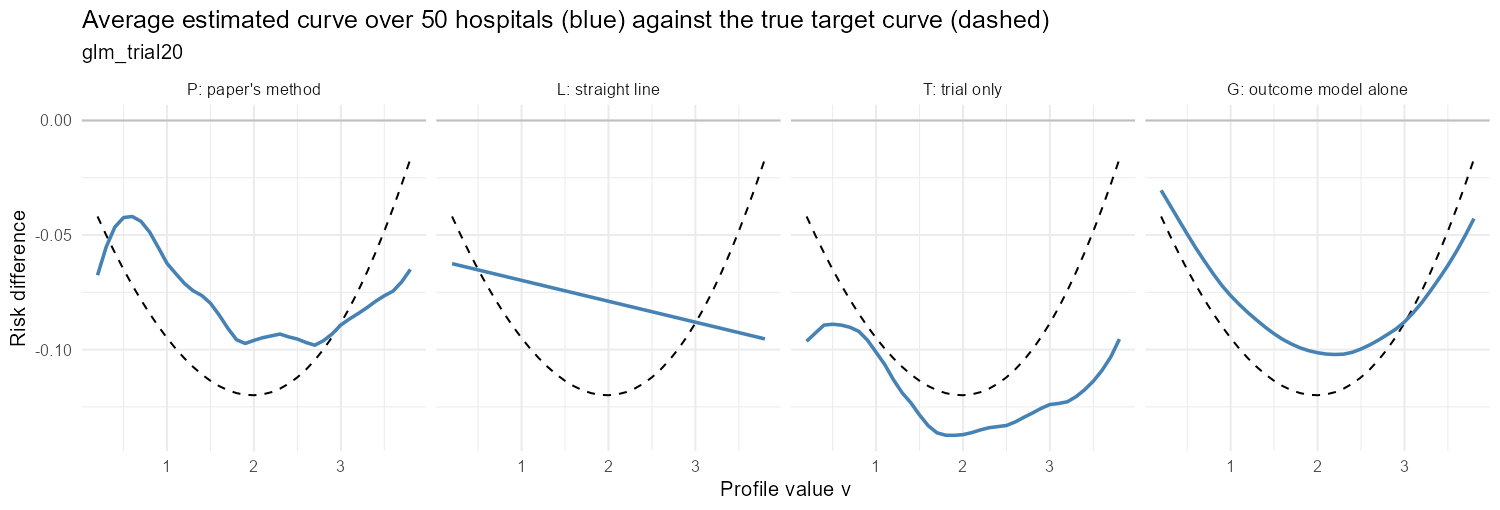
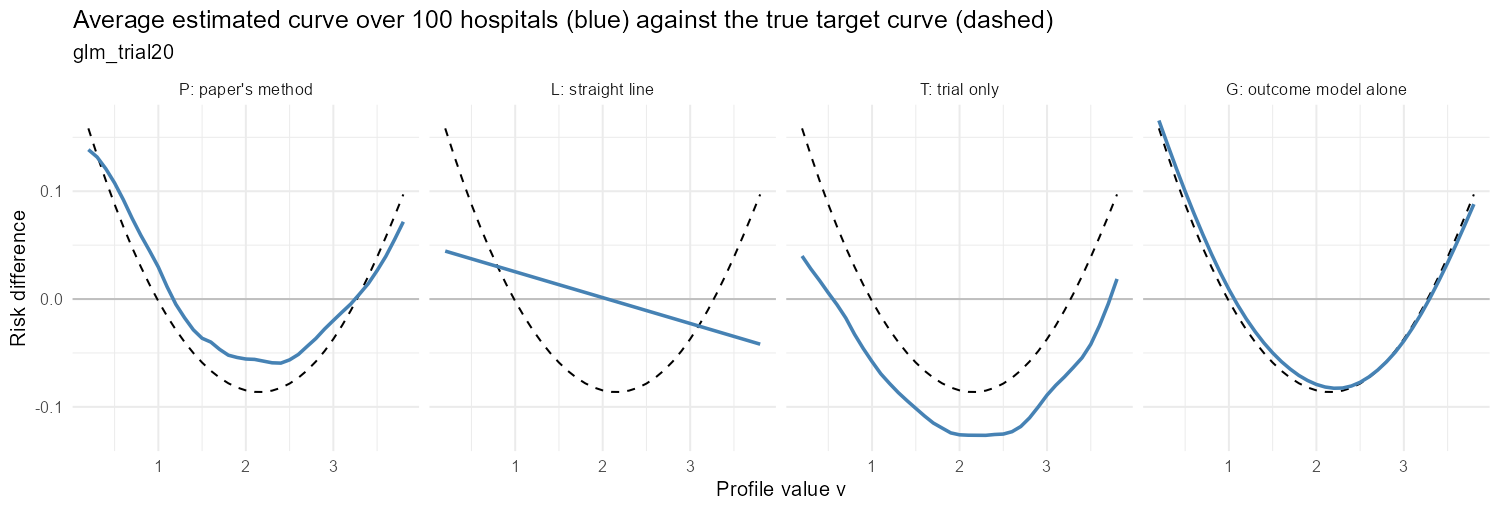
Lessons 1-3 updated to the new design; 100-hospital pilot summary

diff --git a/docs/lessons/03_pseudo_outcome.md b/docs/lessons/03_pseudo_outcome.md
@@ -49,20 +49,20 @@ This is called **double robustness**: two chances to be right.
 
 ## What the simulation shows
 
-Step 3 fitted the helpers in 200 hospitals with the right terms, or with one term left out on purpose. The "wrong" outcome model leaves out frailty. The "wrong" participation model gives everyone the same chance of joining. The table shows the error in the average effect over all eligible patients (estimate minus truth; the truth is −0.082).
+Step 3 fitted the helpers in 200 hospitals with the right terms, or with one term left out on purpose. The "wrong" outcome model leaves out frailty. The "wrong" participation model gives everyone the same chance of joining. The table shows the error in the average effect over all eligible patients (estimate minus truth; the truth is +0.003, because harm at the ends of v and benefit in the middle nearly cancel).
 
 | Helper models | Outcome model alone | With the correction |
 |---|---|---|
-| Both right | 0.000 | 0.000 |
-| Outcome model wrong | −0.037 | 0.003 |
-| Participation model wrong | 0.000 | 0.001 |
-| Both wrong | −0.037 | −0.039 |
+| Both right | 0.001 | 0.000 |
+| Outcome model wrong | −0.069 | 0.005 |
+| Participation model wrong | 0.001 | 0.001 |
+| Both wrong | −0.069 | −0.072 |
 
-Read the second row: the outcome model alone is off by 0.037 (it leans toward the trial's healthier patients), and the correction removes that error. In the last row, both helpers are wrong and the error stays.
+Read the second row: the outcome model alone is off by 0.069 (it leans toward the trial's healthier patients), and the correction removes that error. In the last row, both helpers are wrong and the error stays.
 
 ## The price
 
-The correction adds noise. With both helpers right, the estimate varied across hospitals with a standard deviation of 0.060 with the correction, against 0.052 for the outcome model alone. The method trades some precision for protection against a wrong model. Trial patients with tiny chances of joining make it worse, because their weights are huge.
+The correction adds noise. With both helpers right, the estimate varied across hospitals with a standard deviation of 0.058 with the correction, against 0.049 for the outcome model alone. The method trades some precision for protection against a wrong model. Trial patients with tiny chances of joining make it worse, because their weights are huge.
 
 ## What this lesson does not cover yet
 

diff --git a/docs/lessons/02_helper_models.md b/docs/lessons/02_helper_models.md
@@ -27,14 +27,14 @@ The outcome model alone already gives an estimate: average `g1 − g0` over the 
 
 | Averaged over | Mean of 200 hospitals | Truth |
 |---|---|---|
-| All eligible patients | −0.123 | −0.120 (target) |
-| Trial patients only | −0.159 | −0.156 (trial) |
+| All eligible patients | −0.088 | −0.085 (target) |
+| Trial patients only | −0.151 | −0.148 (trial) |
 
 So when the outcome model is applied to the 2,000 non-trial patients, it lands on the target, not on the trial's value. This is how the non-trial patients help: they bring the right mix of frail and not frail people, even without outcomes.
 
 Two warnings come with it:
 
-- **One hospital is very noisy.** Single hospitals ranged from −0.29 to +0.04. The average over 200 is right; any one hospital can be far off.
+- **One hospital is very noisy.** Single hospitals ranged from −0.24 to +0.05. The average over 200 is right; any one hospital can be far off.
 - **Predictions are worst for the patients least like the trial.** In `reports/figures/02_outcome_model_vs_truth.png`, the blue points (trial patients) sit close to the grey line, which marks a perfect prediction. The red points (non-trial patients) scatter much more. The model learned from healthier patients and is guessing about frail ones.
 
 The right panel shows the same with Super Learner, which was not told the right formula. In real data nobody knows the right formula, so this is the realistic case.

diff --git a/docs/lessons/01_the_question.md b/docs/lessons/01_the_question.md
@@ -37,10 +37,12 @@ Step 1 shows this with exact numbers. At v = 2:
 
 | Who | Risk reduction |
 |---|---|
-| Trial patients | 15.6 percentage points |
-| All 2,500 eligible patients (the truth we want) | 12.0 percentage points |
+| Trial patients | 14.8 percentage points |
+| All 2,500 eligible patients (the truth we want) | 8.5 percentage points |
 
-The figure `reports/figures/01_true_curves.png` shows both curves across all values of v. The dashed curve (trial) lies below the solid one (everyone) at every v. Below zero means the drug lowers the risk.
+The figure `reports/figures/01_true_curves.png` shows both curves across all values of v. Below zero means the drug lowers the risk. The drug helps in the middle of v and harms at both ends: for all eligible patients, the risk goes up by 16 points at v = 0.2. The dashed curve (trial) lies below the solid one (everyone) at every v, so the trial makes the drug look better everywhere.
+
+(These numbers changed on 22 October, after the first pilot run showed the original curve was too flat. See `docs/LOG.md`.)
 
 ## Why we simulate
 
